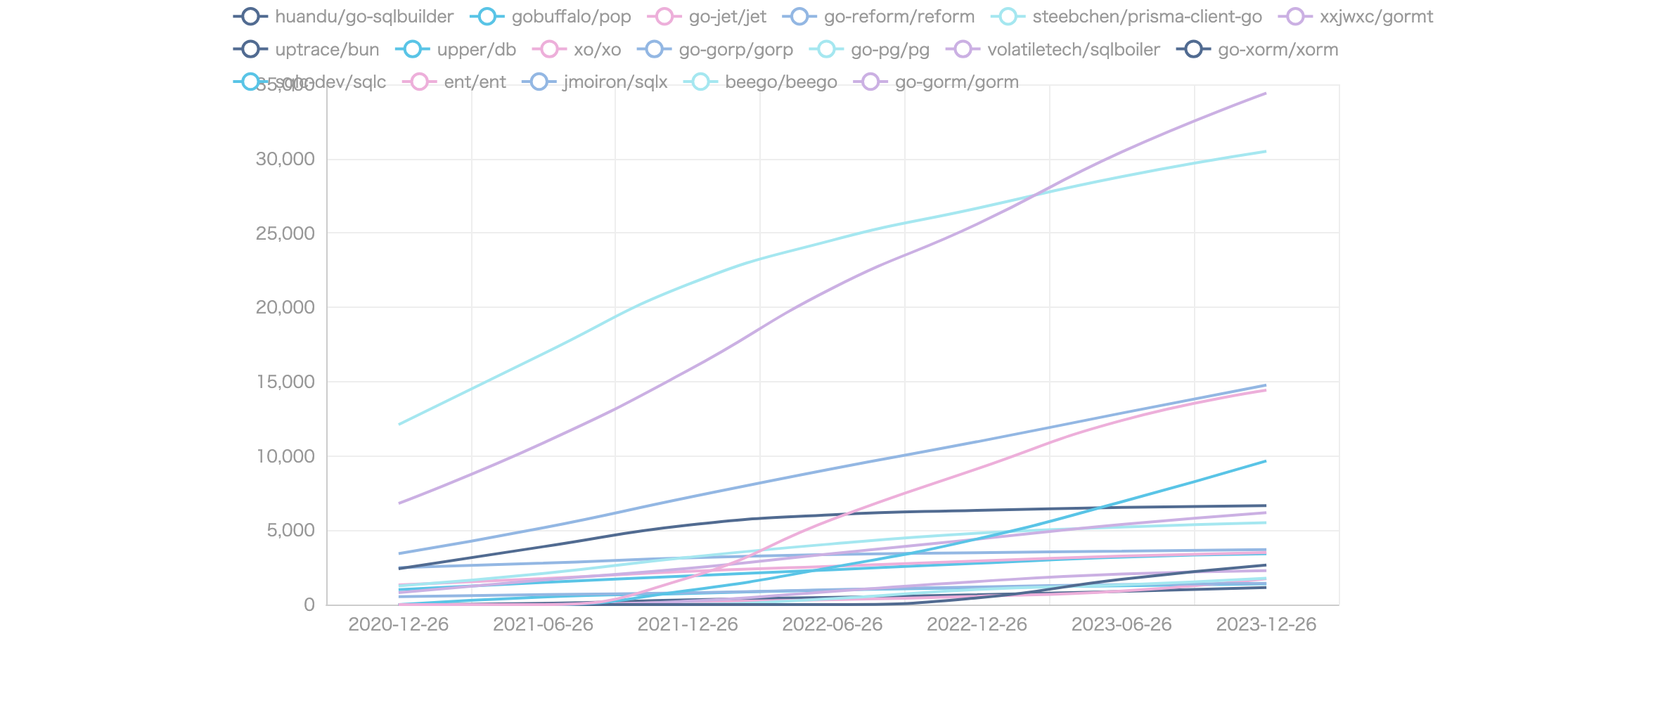
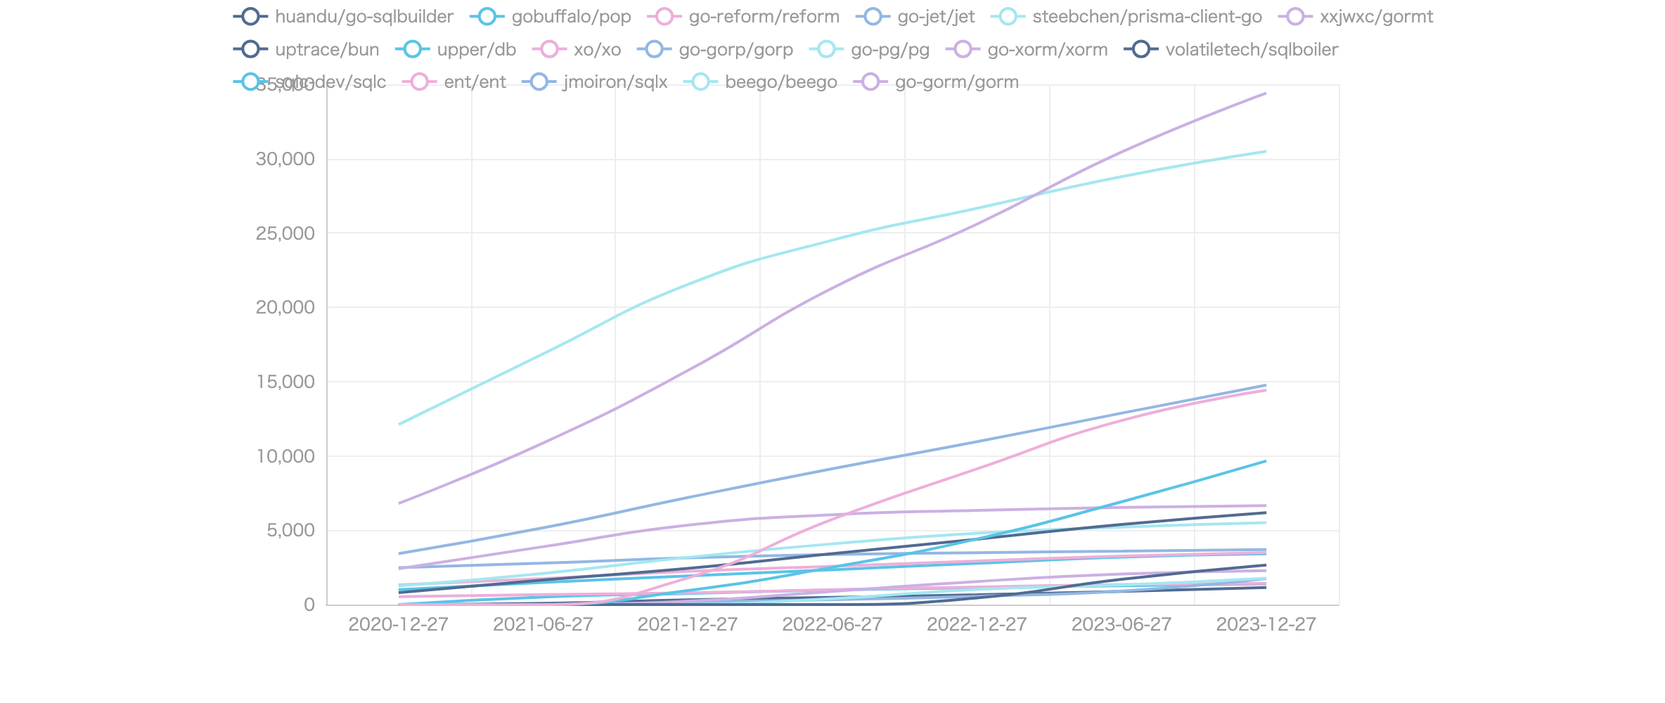
Refactor getStargazersCountByRepo function to use model.NewStargazers() and fetchStargazersPage

diff --git a/output/orm_chart.html b/output/orm_chart.html
@@ -10,20 +10,20 @@
 
 <body>
 <div class="container">
-    <div class="item" id="knIMYfmMvbLj" style="width:900px;height:500px;"></div>
+    <div class="item" id="bdAGAFRUhpXG" style="width:900px;height:500px;"></div>
 </div>
 
 <script type="text/javascript">
     "use strict";
-    let goecharts_knIMYfmMvbLj = echarts.init(document.getElementById('knIMYfmMvbLj'), "westeros");
-    let option_knIMYfmMvbLj = {"dataset":{"source":null},"legend":{"show":true,"type":""},"series":[{"name":"huandu/go-sqlbuilder","type":"line","smooth":true,"connectNulls":false,"showSymbol":false,"waveAnimation":false,"renderLabelForZeroData":false,"selectedMode":false,"animation":false,"data":[{"value":0,"XAxisIndex":0,"YAxisIndex":0},{"value":81,"XAxisIndex":0,"YAxisIndex":0},{"value":317,"XAxisIndex":0,"YAxisIndex":0},{"value":489,"XAxisIndex":0,"YAxisIndex":0},{"value":663,"XAxisIndex":0,"YAxisIndex":0},{"value":891,"XAxisIndex":0,"YAxisIndex":0},{"value":1145,"XAxisIndex":0,"YAxisIndex":0}]},{"name":"gobuffalo/pop","type":"line","smooth":true,"connectNulls":false,"showSymbol":false,"waveAnimation":false,"renderLabelForZeroData":false,"selectedMode":false,"animation":false,"data":[{"value":0,"XAxisIndex":0,"YAxisIndex":0},{"value":509,"XAxisIndex":0,"YAxisIndex":0},{"value":750,"XAxisIndex":0,"YAxisIndex":0},{"value":979,"XAxisIndex":0,"YAxisIndex":0},{"value":1134,"XAxisIndex":0,"YAxisIndex":0},{"value":1267,"XAxisIndex":0,"YAxisIndex":0},{"value":1390,"XAxisIndex":0,"YAxisIndex":0}]},{"name":"go-jet/jet","type":"line","smooth":true,"connectNulls":false,"showSymbol":false,"waveAnimation":false,"renderLabelForZeroData":false,"selectedMode":false,"animation":false,"data":[{"value":0,"XAxisIndex":0,"YAxisIndex":0},{"value":0,"XAxisIndex":0,"YAxisIndex":0},{"value":171,"XAxisIndex":0,"YAxisIndex":0},{"value":329,"XAxisIndex":0,"YAxisIndex":0},{"value":560,"XAxisIndex":0,"YAxisIndex":0},{"value":912,"XAxisIndex":0,"YAxisIndex":0},{"value":1743,"XAxisIndex":0,"YAxisIndex":0}]},{"name":"go-reform/reform","type":"line","smooth":true,"connectNulls":false,"showSymbol":false,"waveAnimation":false,"renderLabelForZeroData":false,"selectedMode":false,"animation":false,"data":[{"value":535,"XAxisIndex":0,"YAxisIndex":0},{"value":672,"XAxisIndex":0,"YAxisIndex":0},{"value":793,"XAxisIndex":0,"YAxisIndex":0},{"value":1002,"XAxisIndex":0,"YAxisIndex":0},{"value":1185,"XAxisIndex":0,"YAxisIndex":0},{"value":1347,"XAxisIndex":0,"YAxisIndex":0},{"value":1427,"XAxisIndex":0,"YAxisIndex":0}]},{"name":"steebchen/prisma-client-go","type":"line","smooth":true,"connectNulls":false,"showSymbol":false,"waveAnimation":false,"renderLabelForZeroData":false,"selectedMode":false,"animation":false,"data":[{"value":0,"XAxisIndex":0,"YAxisIndex":0},{"value":0,"XAxisIndex":0,"YAxisIndex":0},{"value":25,"XAxisIndex":0,"YAxisIndex":0},{"value":403,"XAxisIndex":0,"YAxisIndex":0},{"value":1018,"XAxisIndex":0,"YAxisIndex":0},{"value":1322,"XAxisIndex":0,"YAxisIndex":0},{"value":1776,"XAxisIndex":0,"YAxisIndex":0}]},{"name":"xxjwxc/gormt","type":"line","smooth":true,"connectNulls":false,"showSymbol":false,"waveAnimation":false,"renderLabelForZeroData":false,"selectedMode":false,"animation":false,"data":[{"value":0,"XAxisIndex":0,"YAxisIndex":0},{"value":0,"XAxisIndex":0,"YAxisIndex":0},{"value":231,"XAxisIndex":0,"YAxisIndex":0},{"value":887,"XAxisIndex":0,"YAxisIndex":0},{"value":1554,"XAxisIndex":0,"YAxisIndex":0},{"value":2052,"XAxisIndex":0,"YAxisIndex":0},{"value":2284,"XAxisIndex":0,"YAxisIndex":0}]},{"name":"uptrace/bun","type":"line","smooth":true,"connectNulls":false,"showSymbol":false,"waveAnimation":false,"renderLabelForZeroData":false,"selectedMode":false,"animation":false,"data":[{"value":0,"XAxisIndex":0,"YAxisIndex":0},{"value":0,"XAxisIndex":0,"YAxisIndex":0},{"value":0,"XAxisIndex":0,"YAxisIndex":0},{"value":0,"XAxisIndex":0,"YAxisIndex":0},{"value":447,"XAxisIndex":0,"YAxisIndex":0},{"value":1704,"XAxisIndex":0,"YAxisIndex":0},{"value":2663,"XAxisIndex":0,"YAxisIndex":0}]},{"name":"upper/db","type":"line","smooth":true,"connectNulls":false,"showSymbol":false,"waveAnimation":false,"renderLabelForZeroData":false,"selectedMode":false,"animation":false,"data":[{"value":1001,"XAxisIndex":0,"YAxisIndex":0},{"value":1490,"XAxisIndex":0,"YAxisIndex":0},{"value":1933,"XAxisIndex":0,"YAxisIndex":0},{"value":2347,"XAxisIndex":0,"YAxisIndex":0},{"value":2776,"XAxisIndex":0,"YAxisIndex":0},{"value":3196,"XAxisIndex":0,"YAxisIndex":0},{"value":3419,"XAxisIndex":0,"YAxisIndex":0}]},{"name":"xo/xo","type":"line","smooth":true,"connectNulls":false,"showSymbol":false,"waveAnimation":false,"renderLabelForZeroData":false,"selectedMode":false,"animation":false,"data":[{"value":1323,"XAxisIndex":0,"YAxisIndex":0},{"value":1755,"XAxisIndex":0,"YAxisIndex":0},{"value":2231,"XAxisIndex":0,"YAxisIndex":0},{"value":2581,"XAxisIndex":0,"YAxisIndex":0},{"value":2929,"XAxisIndex":0,"YAxisIndex":0},{"value":3263,"XAxisIndex":0,"YAxisIndex":0},{"value":3497,"XAxisIndex":0,"YAxisIndex":0}]},{"name":"go-gorp/gorp","type":"line","smooth":true,"connectNulls":false,"showSymbol":false,"waveAnimation":false,"renderLabelForZeroData":false,"selectedMode":false,"animation":false,"data":[{"value":2487,"XAxisIndex":0,"YAxisIndex":0},{"value":2786,"XAxisIndex":0,"YAxisIndex":0},{"value":3143,"XAxisIndex":0,"YAxisIndex":0},{"value":3373,"XAxisIndex":0,"YAxisIndex":0},{"value":3492,"XAxisIndex":0,"YAxisIndex":0},{"value":3592,"XAxisIndex":0,"YAxisIndex":0},{"value":3701,"XAxisIndex":0,"YAxisIndex":0}]},{"name":"go-pg/pg","type":"line","smooth":true,"connectNulls":false,"showSymbol":false,"waveAnimation":false,"renderLabelForZeroData":false,"selectedMode":false,"animation":false,"data":[{"value":1248,"XAxisIndex":0,"YAxisIndex":0},{"value":2096,"XAxisIndex":0,"YAxisIndex":0},{"value":3177,"XAxisIndex":0,"YAxisIndex":0},{"value":4085,"XAxisIndex":0,"YAxisIndex":0},{"value":4798,"XAxisIndex":0,"YAxisIndex":0},{"value":5217,"XAxisIndex":0,"YAxisIndex":0},{"value":5511,"XAxisIndex":0,"YAxisIndex":0}]},{"name":"volatiletech/sqlboiler","type":"line","smooth":true,"connectNulls":false,"showSymbol":false,"waveAnimation":false,"renderLabelForZeroData":false,"selectedMode":false,"animation":false,"data":[{"value":805,"XAxisIndex":0,"YAxisIndex":0},{"value":1659,"XAxisIndex":0,"YAxisIndex":0},{"value":2435,"XAxisIndex":0,"YAxisIndex":0},{"value":3432,"XAxisIndex":0,"YAxisIndex":0},{"value":4403,"XAxisIndex":0,"YAxisIndex":0},{"value":5389,"XAxisIndex":0,"YAxisIndex":0},{"value":6188,"XAxisIndex":0,"YAxisIndex":0}]},{"name":"go-xorm/xorm","type":"line","smooth":true,"connectNulls":false,"showSymbol":false,"waveAnimation":false,"renderLabelForZeroData":false,"selectedMode":false,"animation":false,"data":[{"value":2416,"XAxisIndex":0,"YAxisIndex":0},{"value":3896,"XAxisIndex":0,"YAxisIndex":0},{"value":5344,"XAxisIndex":0,"YAxisIndex":0},{"value":6045,"XAxisIndex":0,"YAxisIndex":0},{"value":6335,"XAxisIndex":0,"YAxisIndex":0},{"value":6533,"XAxisIndex":0,"YAxisIndex":0},{"value":6653,"XAxisIndex":0,"YAxisIndex":0}]},{"name":"sqlc-dev/sqlc","type":"line","smooth":true,"connectNulls":false,"showSymbol":false,"waveAnimation":false,"renderLabelForZeroData":false,"selectedMode":false,"animation":false,"data":[{"value":0,"XAxisIndex":0,"YAxisIndex":0},{"value":0,"XAxisIndex":0,"YAxisIndex":0},{"value":950,"XAxisIndex":0,"YAxisIndex":0},{"value":2512,"XAxisIndex":0,"YAxisIndex":0},{"value":4417,"XAxisIndex":0,"YAxisIndex":0},{"value":6919,"XAxisIndex":0,"YAxisIndex":0},{"value":9668,"XAxisIndex":0,"YAxisIndex":0}]},{"name":"ent/ent","type":"line","smooth":true,"connectNulls":false,"showSymbol":false,"waveAnimation":false,"renderLabelForZeroData":false,"selectedMode":false,"animation":false,"data":[{"value":0,"XAxisIndex":0,"YAxisIndex":0},{"value":0,"XAxisIndex":0,"YAxisIndex":0},{"value":1795,"XAxisIndex":0,"YAxisIndex":0},{"value":5740,"XAxisIndex":0,"YAxisIndex":0},{"value":9130,"XAxisIndex":0,"YAxisIndex":0},{"value":12385,"XAxisIndex":0,"YAxisIndex":0},{"value":14421,"XAxisIndex":0,"YAxisIndex":0}]},{"name":"jmoiron/sqlx","type":"line","smooth":true,"connectNulls":false,"showSymbol":false,"waveAnimation":false,"renderLabelForZeroData":false,"selectedMode":false,"animation":false,"data":[{"value":3429,"XAxisIndex":0,"YAxisIndex":0},{"value":5164,"XAxisIndex":0,"YAxisIndex":0},{"value":7200,"XAxisIndex":0,"YAxisIndex":0},{"value":9144,"XAxisIndex":0,"YAxisIndex":0},{"value":10957,"XAxisIndex":0,"YAxisIndex":0},{"value":12882,"XAxisIndex":0,"YAxisIndex":0},{"value":14769,"XAxisIndex":0,"YAxisIndex":0}]},{"name":"beego/beego","type":"line","smooth":true,"connectNulls":false,"showSymbol":false,"waveAnimation":false,"renderLabelForZeroData":false,"selectedMode":false,"animation":false,"data":[{"value":12110,"XAxisIndex":0,"YAxisIndex":0},{"value":16875,"XAxisIndex":0,"YAxisIndex":0},{"value":21533,"XAxisIndex":0,"YAxisIndex":0},{"value":24519,"XAxisIndex":0,"YAxisIndex":0},{"value":26665,"XAxisIndex":0,"YAxisIndex":0},{"value":28792,"XAxisIndex":0,"YAxisIndex":0},{"value":30492,"XAxisIndex":0,"YAxisIndex":0}]},{"name":"go-gorm/gorm","type":"line","smooth":true,"connectNulls":false,"showSymbol":false,"waveAnimation":false,"renderLabelForZeroData":false,"selectedMode":false,"animation":false,"data":[{"value":6808,"XAxisIndex":0,"YAxisIndex":0},{"value":10873,"XAxisIndex":0,"YAxisIndex":0},{"value":15746,"XAxisIndex":0,"YAxisIndex":0},{"value":21291,"XAxisIndex":0,"YAxisIndex":0},{"value":25600,"XAxisIndex":0,"YAxisIndex":0},{"value":30451,"XAxisIndex":0,"YAxisIndex":0},{"value":34413,"XAxisIndex":0,"YAxisIndex":0}]}],"title":{},"tooltip":{"show":false},"xAxis":[{"data":["2020-12-26","2021-06-26","2021-12-26","2022-06-26","2022-12-26","2023-06-26","2023-12-26"]}],"yAxis":[{}]}
+    let goecharts_bdAGAFRUhpXG = echarts.init(document.getElementById('bdAGAFRUhpXG'), "westeros");
+    let option_bdAGAFRUhpXG = {"dataset":{"source":null},"legend":{"show":true,"type":""},"series":[{"name":"huandu/go-sqlbuilder","type":"line","smooth":true,"connectNulls":false,"showSymbol":false,"waveAnimation":false,"renderLabelForZeroData":false,"selectedMode":false,"animation":false,"data":[{"value":0,"XAxisIndex":0,"YAxisIndex":0},{"value":81,"XAxisIndex":0,"YAxisIndex":0},{"value":317,"XAxisIndex":0,"YAxisIndex":0},{"value":489,"XAxisIndex":0,"YAxisIndex":0},{"value":663,"XAxisIndex":0,"YAxisIndex":0},{"value":891,"XAxisIndex":0,"YAxisIndex":0},{"value":1145,"XAxisIndex":0,"YAxisIndex":0}]},{"name":"gobuffalo/pop","type":"line","smooth":true,"connectNulls":false,"showSymbol":false,"waveAnimation":false,"renderLabelForZeroData":false,"selectedMode":false,"animation":false,"data":[{"value":0,"XAxisIndex":0,"YAxisIndex":0},{"value":509,"XAxisIndex":0,"YAxisIndex":0},{"value":750,"XAxisIndex":0,"YAxisIndex":0},{"value":979,"XAxisIndex":0,"YAxisIndex":0},{"value":1134,"XAxisIndex":0,"YAxisIndex":0},{"value":1267,"XAxisIndex":0,"YAxisIndex":0},{"value":1390,"XAxisIndex":0,"YAxisIndex":0}]},{"name":"go-reform/reform","type":"line","smooth":true,"connectNulls":false,"showSymbol":false,"waveAnimation":false,"renderLabelForZeroData":false,"selectedMode":false,"animation":false,"data":[{"value":535,"XAxisIndex":0,"YAxisIndex":0},{"value":672,"XAxisIndex":0,"YAxisIndex":0},{"value":793,"XAxisIndex":0,"YAxisIndex":0},{"value":1002,"XAxisIndex":0,"YAxisIndex":0},{"value":1185,"XAxisIndex":0,"YAxisIndex":0},{"value":1347,"XAxisIndex":0,"YAxisIndex":0},{"value":1427,"XAxisIndex":0,"YAxisIndex":0}]},{"name":"go-jet/jet","type":"line","smooth":true,"connectNulls":false,"showSymbol":false,"waveAnimation":false,"renderLabelForZeroData":false,"selectedMode":false,"animation":false,"data":[{"value":0,"XAxisIndex":0,"YAxisIndex":0},{"value":0,"XAxisIndex":0,"YAxisIndex":0},{"value":171,"XAxisIndex":0,"YAxisIndex":0},{"value":329,"XAxisIndex":0,"YAxisIndex":0},{"value":560,"XAxisIndex":0,"YAxisIndex":0},{"value":912,"XAxisIndex":0,"YAxisIndex":0},{"value":1744,"XAxisIndex":0,"YAxisIndex":0}]},{"name":"steebchen/prisma-client-go","type":"line","smooth":true,"connectNulls":false,"showSymbol":false,"waveAnimation":false,"renderLabelForZeroData":false,"selectedMode":false,"animation":false,"data":[{"value":0,"XAxisIndex":0,"YAxisIndex":0},{"value":0,"XAxisIndex":0,"YAxisIndex":0},{"value":25,"XAxisIndex":0,"YAxisIndex":0},{"value":404,"XAxisIndex":0,"YAxisIndex":0},{"value":1018,"XAxisIndex":0,"YAxisIndex":0},{"value":1322,"XAxisIndex":0,"YAxisIndex":0},{"value":1776,"XAxisIndex":0,"YAxisIndex":0}]},{"name":"xxjwxc/gormt","type":"line","smooth":true,"connectNulls":false,"showSymbol":false,"waveAnimation":false,"renderLabelForZeroData":false,"selectedMode":false,"animation":false,"data":[{"value":0,"XAxisIndex":0,"YAxisIndex":0},{"value":0,"XAxisIndex":0,"YAxisIndex":0},{"value":231,"XAxisIndex":0,"YAxisIndex":0},{"value":887,"XAxisIndex":0,"YAxisIndex":0},{"value":1554,"XAxisIndex":0,"YAxisIndex":0},{"value":2052,"XAxisIndex":0,"YAxisIndex":0},{"value":2284,"XAxisIndex":0,"YAxisIndex":0}]},{"name":"uptrace/bun","type":"line","smooth":true,"connectNulls":false,"showSymbol":false,"waveAnimation":false,"renderLabelForZeroData":false,"selectedMode":false,"animation":false,"data":[{"value":0,"XAxisIndex":0,"YAxisIndex":0},{"value":0,"XAxisIndex":0,"YAxisIndex":0},{"value":0,"XAxisIndex":0,"YAxisIndex":0},{"value":0,"XAxisIndex":0,"YAxisIndex":0},{"value":447,"XAxisIndex":0,"YAxisIndex":0},{"value":1704,"XAxisIndex":0,"YAxisIndex":0},{"value":2663,"XAxisIndex":0,"YAxisIndex":0}]},{"name":"upper/db","type":"line","smooth":true,"connectNulls":false,"showSymbol":false,"waveAnimation":false,"renderLabelForZeroData":false,"selectedMode":false,"animation":false,"data":[{"value":1001,"XAxisIndex":0,"YAxisIndex":0},{"value":1490,"XAxisIndex":0,"YAxisIndex":0},{"value":1933,"XAxisIndex":0,"YAxisIndex":0},{"value":2347,"XAxisIndex":0,"YAxisIndex":0},{"value":2776,"XAxisIndex":0,"YAxisIndex":0},{"value":3196,"XAxisIndex":0,"YAxisIndex":0},{"value":3419,"XAxisIndex":0,"YAxisIndex":0}]},{"name":"xo/xo","type":"line","smooth":true,"connectNulls":false,"showSymbol":false,"waveAnimation":false,"renderLabelForZeroData":false,"selectedMode":false,"animation":false,"data":[{"value":1323,"XAxisIndex":0,"YAxisIndex":0},{"value":1755,"XAxisIndex":0,"YAxisIndex":0},{"value":2231,"XAxisIndex":0,"YAxisIndex":0},{"value":2581,"XAxisIndex":0,"YAxisIndex":0},{"value":2929,"XAxisIndex":0,"YAxisIndex":0},{"value":3263,"XAxisIndex":0,"YAxisIndex":0},{"value":3497,"XAxisIndex":0,"YAxisIndex":0}]},{"name":"go-gorp/gorp","type":"line","smooth":true,"connectNulls":false,"showSymbol":false,"waveAnimation":false,"renderLabelForZeroData":false,"selectedMode":false,"animation":false,"data":[{"value":2487,"XAxisIndex":0,"YAxisIndex":0},{"value":2786,"XAxisIndex":0,"YAxisIndex":0},{"value":3143,"XAxisIndex":0,"YAxisIndex":0},{"value":3373,"XAxisIndex":0,"YAxisIndex":0},{"value":3492,"XAxisIndex":0,"YAxisIndex":0},{"value":3592,"XAxisIndex":0,"YAxisIndex":0},{"value":3701,"XAxisIndex":0,"YAxisIndex":0}]},{"name":"go-pg/pg","type":"line","smooth":true,"connectNulls":false,"showSymbol":false,"waveAnimation":false,"renderLabelForZeroData":false,"selectedMode":false,"animation":false,"data":[{"value":1248,"XAxisIndex":0,"YAxisIndex":0},{"value":2096,"XAxisIndex":0,"YAxisIndex":0},{"value":3177,"XAxisIndex":0,"YAxisIndex":0},{"value":4085,"XAxisIndex":0,"YAxisIndex":0},{"value":4798,"XAxisIndex":0,"YAxisIndex":0},{"value":5217,"XAxisIndex":0,"YAxisIndex":0},{"value":5511,"XAxisIndex":0,"YAxisIndex":0}]},{"name":"go-xorm/xorm","type":"line","smooth":true,"connectNulls":false,"showSymbol":false,"waveAnimation":false,"renderLabelForZeroData":false,"selectedMode":false,"animation":false,"data":[{"value":2416,"XAxisIndex":0,"YAxisIndex":0},{"value":3897,"XAxisIndex":0,"YAxisIndex":0},{"value":5345,"XAxisIndex":0,"YAxisIndex":0},{"value":6045,"XAxisIndex":0,"YAxisIndex":0},{"value":6335,"XAxisIndex":0,"YAxisIndex":0},{"value":6533,"XAxisIndex":0,"YAxisIndex":0},{"value":6653,"XAxisIndex":0,"YAxisIndex":0}]},{"name":"volatiletech/sqlboiler","type":"line","smooth":true,"connectNulls":false,"showSymbol":false,"waveAnimation":false,"renderLabelForZeroData":false,"selectedMode":false,"animation":false,"data":[{"value":805,"XAxisIndex":0,"YAxisIndex":0},{"value":1659,"XAxisIndex":0,"YAxisIndex":0},{"value":2435,"XAxisIndex":0,"YAxisIndex":0},{"value":3432,"XAxisIndex":0,"YAxisIndex":0},{"value":4403,"XAxisIndex":0,"YAxisIndex":0},{"value":5389,"XAxisIndex":0,"YAxisIndex":0},{"value":6188,"XAxisIndex":0,"YAxisIndex":0}]},{"name":"sqlc-dev/sqlc","type":"line","smooth":true,"connectNulls":false,"showSymbol":false,"waveAnimation":false,"renderLabelForZeroData":false,"selectedMode":false,"animation":false,"data":[{"value":0,"XAxisIndex":0,"YAxisIndex":0},{"value":0,"XAxisIndex":0,"YAxisIndex":0},{"value":950,"XAxisIndex":0,"YAxisIndex":0},{"value":2513,"XAxisIndex":0,"YAxisIndex":0},{"value":4417,"XAxisIndex":0,"YAxisIndex":0},{"value":6919,"XAxisIndex":0,"YAxisIndex":0},{"value":9668,"XAxisIndex":0,"YAxisIndex":0}]},{"name":"ent/ent","type":"line","smooth":true,"connectNulls":false,"showSymbol":false,"waveAnimation":false,"renderLabelForZeroData":false,"selectedMode":false,"animation":false,"data":[{"value":0,"XAxisIndex":0,"YAxisIndex":0},{"value":0,"XAxisIndex":0,"YAxisIndex":0},{"value":1795,"XAxisIndex":0,"YAxisIndex":0},{"value":5740,"XAxisIndex":0,"YAxisIndex":0},{"value":9130,"XAxisIndex":0,"YAxisIndex":0},{"value":12385,"XAxisIndex":0,"YAxisIndex":0},{"value":14421,"XAxisIndex":0,"YAxisIndex":0}]},{"name":"jmoiron/sqlx","type":"line","smooth":true,"connectNulls":false,"showSymbol":false,"waveAnimation":false,"renderLabelForZeroData":false,"selectedMode":false,"animation":false,"data":[{"value":3429,"XAxisIndex":0,"YAxisIndex":0},{"value":5164,"XAxisIndex":0,"YAxisIndex":0},{"value":7200,"XAxisIndex":0,"YAxisIndex":0},{"value":9144,"XAxisIndex":0,"YAxisIndex":0},{"value":10958,"XAxisIndex":0,"YAxisIndex":0},{"value":12882,"XAxisIndex":0,"YAxisIndex":0},{"value":14769,"XAxisIndex":0,"YAxisIndex":0}]},{"name":"beego/beego","type":"line","smooth":true,"connectNulls":false,"showSymbol":false,"waveAnimation":false,"renderLabelForZeroData":false,"selectedMode":false,"animation":false,"data":[{"value":12112,"XAxisIndex":0,"YAxisIndex":0},{"value":16875,"XAxisIndex":0,"YAxisIndex":0},{"value":21533,"XAxisIndex":0,"YAxisIndex":0},{"value":24519,"XAxisIndex":0,"YAxisIndex":0},{"value":26665,"XAxisIndex":0,"YAxisIndex":0},{"value":28792,"XAxisIndex":0,"YAxisIndex":0},{"value":30492,"XAxisIndex":0,"YAxisIndex":0}]},{"name":"go-gorm/gorm","type":"line","smooth":true,"connectNulls":false,"showSymbol":false,"waveAnimation":false,"renderLabelForZeroData":false,"selectedMode":false,"animation":false,"data":[{"value":6808,"XAxisIndex":0,"YAxisIndex":0},{"value":10875,"XAxisIndex":0,"YAxisIndex":0},{"value":15746,"XAxisIndex":0,"YAxisIndex":0},{"value":21292,"XAxisIndex":0,"YAxisIndex":0},{"value":25600,"XAxisIndex":0,"YAxisIndex":0},{"value":30452,"XAxisIndex":0,"YAxisIndex":0},{"value":34413,"XAxisIndex":0,"YAxisIndex":0}]}],"title":{},"tooltip":{"show":false},"xAxis":[{"data":["2020-12-27","2021-06-27","2021-12-27","2022-06-27","2022-12-27","2023-06-27","2023-12-27"]}],"yAxis":[{}]}
 ;
     
-	let action_knIMYfmMvbLj = {"areas":{},"type":""}
+	let action_bdAGAFRUhpXG = {"areas":{},"type":""}
 ;
     
-    goecharts_knIMYfmMvbLj.setOption(option_knIMYfmMvbLj);
- 	goecharts_knIMYfmMvbLj.dispatchAction(action_knIMYfmMvbLj);
+    goecharts_bdAGAFRUhpXG.setOption(option_bdAGAFRUhpXG);
+ 	goecharts_bdAGAFRUhpXG.dispatchAction(action_bdAGAFRUhpXG);
 </script>
 
 <style>

diff --git a/app/fetch.go b/app/fetch.go
@@ -83,25 +83,21 @@ func (s *fetchService) createGitHub(ctx context.Context) (*model.GitHub, error) 
 }
 
 func (s *fetchService) getStargazersCountByRepo(ctx context.Context, repo *model.Repository) []model.Stargazer {
-	sem := make(chan bool, 4)
-	var eg errgroup.Group
-	var lock sync.Mutex
-	var stargazers []model.Stargazer
+	var (
+		sem        = make(chan bool, 4)
+		eg         errgroup.Group
+		lock       sync.Mutex
+		stargazers = model.NewStargazers()
+	)
 	for page := 1; page <= model.LastPage(repo); page++ {
 		sem <- true
 		page := page
 		eg.Go(func() error {
 			defer func() { <-sem }()
-			result, err := s.gitHubRepo.GetStarPage(ctx, repo, page)
-			if errors.Is(err, pkg.ErrNoMorePages) {
-				return nil
-			}
-			if err != nil {
-				return err
-			}
+			result := s.fetchStargazersPage(ctx, repo, page, stargazers)
 			lock.Lock()
 			defer lock.Unlock()
-			stargazers = append(stargazers, *result...)
+			stargazers.Stars = append(stargazers.Stars, *result...)
 			return nil
 		})
 	}
@@ -109,7 +105,7 @@ func (s *fetchService) getStargazersCountByRepo(ctx context.Context, repo *model
 		log.Println(err)
 	}
 
-	return stargazers
+	return stargazers.Stars
 }
 
 func (s *fetchService) fetchStargazersPage(ctx context.Context, repo *model.Repository, page int, stargazers *model.Stargazers) *[]model.Stargazer {

diff --git a/README.md b/README.md
@@ -4,93 +4,93 @@ If there are any other public repositories of golang orMapper, I'd be glad to he
 [![Start数チャート](output/orm_chart.jpeg)](https://ryotaroseto.github.io/star-golang-orms/output/orm_chart.html)
 | No. | Project Name | Stars | Subscribers | Forks | Open Issues | Description | Createdate | Last Update |
 | --- | ------------ | ----- | ----------- | ----- | ----------- | ----------- | ----------- | ----------- |
-| 1 | [huandu/go-sqlbuilder](https://github.com/huandu/go-sqlbuilder) | 1145 | 12 | 107 | 5 | A flexible and powerful SQL string builder library plus a zero-config ORM. | 2017-12-27 16:37:48 | 2023-12-26 07:03:10 |
-| 2 | [go-jet/jet](https://github.com/go-jet/jet) | 1743 | 23 | 100 | 39 | Type safe SQL builder with code generation and automatic query result data mapping | 2019-03-02 11:06:23 | 2023-12-26 13:20:51 |
+| 1 | [go-jet/jet](https://github.com/go-jet/jet) | 1744 | 23 | 100 | 39 | Type safe SQL builder with code generation and automatic query result data mapping | 2019-03-02 11:06:23 | 2023-12-26 14:29:08 |
+| 2 | [huandu/go-sqlbuilder](https://github.com/huandu/go-sqlbuilder) | 1145 | 12 | 107 | 5 | A flexible and powerful SQL string builder library plus a zero-config ORM. | 2017-12-27 16:37:48 | 2023-12-26 07:03:10 |
 | 3 | [go-xorm/xorm](https://github.com/go-xorm/xorm) | 6653 | 266 | 770 | 307 | Simple and Powerful ORM for Go, support mysql,postgres,tidb,sqlite3,mssql,oracle, Moved to https://gitea.com/xorm/xorm | 2013-05-09 02:35:04 | 2023-12-26 11:00:08 |
-| 4 | [beego/beego](https://github.com/beego/beego) | 30492 | 1199 | 5692 | 13 | beego is an open-source, high-performance web framework for the Go programming language. | 2012-02-29 02:32:08 | 2023-12-26 09:29:57 |
-| 5 | [gobuffalo/pop](https://github.com/gobuffalo/pop) | 1390 | 22 | 248 | 95 | A Tasty Treat For All Your Database Needs | 2018-02-07 21:13:46 | 2023-12-20 03:29:28 |
-| 6 | [jmoiron/sqlx](https://github.com/jmoiron/sqlx) | 14769 | 198 | 1057 | 346 | general purpose extensions to golang's database/sql | 2013-01-28 19:40:00 | 2023-12-26 13:51:14 |
-| 7 | [go-gorp/gorp](https://github.com/go-gorp/gorp) | 3701 | 106 | 414 | 146 | Go Relational Persistence - an ORM-ish library for Go | 2012-01-04 19:50:09 | 2023-12-26 09:29:52 |
-| 8 | [upper/db](https://github.com/upper/db) | 3419 | 59 | 241 | 153 | Data access layer for PostgreSQL, CockroachDB, MySQL, SQLite and MongoDB with ORM-like features. | 2013-10-23 02:04:36 | 2023-12-26 08:10:48 |
+| 4 | [gobuffalo/pop](https://github.com/gobuffalo/pop) | 1390 | 22 | 248 | 95 | A Tasty Treat For All Your Database Needs | 2018-02-07 21:13:46 | 2023-12-20 03:29:28 |
+| 5 | [go-reform/reform](https://github.com/go-reform/reform) | 1427 | 25 | 73 | 86 | A better ORM for Go, based on non-empty interfaces and code generation. | 2016-02-25 09:41:09 | 2023-12-21 17:03:32 |
+| 6 | [go-gorp/gorp](https://github.com/go-gorp/gorp) | 3701 | 106 | 414 | 146 | Go Relational Persistence - an ORM-ish library for Go | 2012-01-04 19:50:09 | 2023-12-26 09:29:52 |
+| 7 | [xxjwxc/gormt](https://github.com/xxjwxc/gormt) | 2284 | 23 | 375 | 58 | database to golang struct | 2019-05-05 13:10:26 | 2023-12-25 15:24:52 |
+| 8 | [beego/beego](https://github.com/beego/beego) | 30492 | 1199 | 5692 | 13 | beego is an open-source, high-performance web framework for the Go programming language. | 2012-02-29 02:32:08 | 2023-12-26 09:29:57 |
 | 9 | [ent/ent](https://github.com/ent/ent) | 14421 | 152 | 908 | 395 | An entity framework for Go | 2019-06-12 22:53:55 | 2023-12-26 11:12:34 |
-| 10 | [go-pg/pg](https://github.com/go-pg/pg) | 5511 | 88 | 405 | 115 | Golang ORM with focus on PostgreSQL features and performance | 2013-04-24 12:31:41 | 2023-12-26 05:59:46 |
-| 11 | [go-gorm/gorm](https://github.com/go-gorm/gorm) | 34413 | 497 | 3823 | 299 | The fantastic ORM library for Golang, aims to be developer friendly | 2013-10-25 08:31:38 | 2023-12-26 11:48:32 |
-| 12 | [xo/xo](https://github.com/xo/xo) | 3497 | 71 | 312 | 41 | Command line tool to generate idiomatic Go code for SQL databases supporting PostgreSQL, MySQL, SQLite, Oracle, and Microsoft SQL Server | 2016-02-05 10:22:20 | 2023-12-25 09:23:05 |
-| 13 | [uptrace/bun](https://github.com/uptrace/bun) | 2663 | 25 | 176 | 146 | SQL-first Golang ORM | 2021-05-03 11:40:52 | 2023-12-26 10:57:33 |
-| 14 | [xxjwxc/gormt](https://github.com/xxjwxc/gormt) | 2284 | 23 | 375 | 58 | database to golang struct | 2019-05-05 13:10:26 | 2023-12-25 15:24:52 |
-| 15 | [go-reform/reform](https://github.com/go-reform/reform) | 1427 | 25 | 73 | 86 | A better ORM for Go, based on non-empty interfaces and code generation. | 2016-02-25 09:41:09 | 2023-12-21 17:03:32 |
-| 16 | [volatiletech/sqlboiler](https://github.com/volatiletech/sqlboiler) | 6188 | 75 | 563 | 99 | Generate a Go ORM tailored to your database schema. | 2016-02-21 06:18:25 | 2023-12-26 13:03:53 |
+| 10 | [upper/db](https://github.com/upper/db) | 3419 | 59 | 241 | 153 | Data access layer for PostgreSQL, CockroachDB, MySQL, SQLite and MongoDB with ORM-like features. | 2013-10-23 02:04:36 | 2023-12-26 08:10:48 |
+| 11 | [jmoiron/sqlx](https://github.com/jmoiron/sqlx) | 14769 | 198 | 1057 | 346 | general purpose extensions to golang's database/sql | 2013-01-28 19:40:00 | 2023-12-26 13:51:14 |
+| 12 | [uptrace/bun](https://github.com/uptrace/bun) | 2663 | 25 | 176 | 146 | SQL-first Golang ORM | 2021-05-03 11:40:52 | 2023-12-26 10:57:33 |
+| 13 | [xo/xo](https://github.com/xo/xo) | 3497 | 71 | 312 | 41 | Command line tool to generate idiomatic Go code for SQL databases supporting PostgreSQL, MySQL, SQLite, Oracle, and Microsoft SQL Server | 2016-02-05 10:22:20 | 2023-12-25 09:23:05 |
+| 14 | [volatiletech/sqlboiler](https://github.com/volatiletech/sqlboiler) | 6188 | 75 | 563 | 99 | Generate a Go ORM tailored to your database schema. | 2016-02-21 06:18:25 | 2023-12-26 13:03:53 |
+| 15 | [go-gorm/gorm](https://github.com/go-gorm/gorm) | 34413 | 497 | 3823 | 299 | The fantastic ORM library for Golang, aims to be developer friendly | 2013-10-25 08:31:38 | 2023-12-26 11:48:32 |
+| 16 | [go-pg/pg](https://github.com/go-pg/pg) | 5511 | 88 | 405 | 115 | Golang ORM with focus on PostgreSQL features and performance | 2013-04-24 12:31:41 | 2023-12-26 05:59:46 |
 | 17 | [steebchen/prisma-client-go](https://github.com/steebchen/prisma-client-go) | 1776 | 27 | 89 | 96 | Prisma Client Go is an auto-generated and fully type-safe database client | 2019-09-24 12:17:03 | 2023-12-25 14:22:34 |
-| 18 | [sqlc-dev/sqlc](https://github.com/sqlc-dev/sqlc) | 9668 | 69 | 655 | 219 | Generate type-safe code from SQL | 2019-06-21 21:11:35 | 2023-12-26 14:05:43 |
+| 18 | [sqlc-dev/sqlc](https://github.com/sqlc-dev/sqlc) | 9668 | 69 | 656 | 219 | Generate type-safe code from SQL | 2019-06-21 21:11:35 | 2023-12-26 14:26:14 |
 ## [huandu/go-sqlbuilder](https://github.com/huandu/go-sqlbuilder)
-| 2020-12-26 | 2021-06-26 | 2021-12-26 | 2022-06-26 | 2022-12-26 | 2023-06-26 | 2023-12-26 |
+| 2020-12-27 | 2021-06-27 | 2021-12-27 | 2022-06-27 | 2022-12-27 | 2023-06-27 | 2023-12-27 |
 | --- | --- | --- | --- | --- | --- | --- |
 | - | 81 | 317 | 489 | 663 | 891 | 1145 |
 ## [gobuffalo/pop](https://github.com/gobuffalo/pop)
-| 2020-12-26 | 2021-06-26 | 2021-12-26 | 2022-06-26 | 2022-12-26 | 2023-06-26 | 2023-12-26 |
+| 2020-12-27 | 2021-06-27 | 2021-12-27 | 2022-06-27 | 2022-12-27 | 2023-06-27 | 2023-12-27 |
 | --- | --- | --- | --- | --- | --- | --- |
 | - | 509 | 750 | 979 | 1134 | 1267 | 1390 |
-## [go-jet/jet](https://github.com/go-jet/jet)
-| 2020-12-26 | 2021-06-26 | 2021-12-26 | 2022-06-26 | 2022-12-26 | 2023-06-26 | 2023-12-26 |
-| --- | --- | --- | --- | --- | --- | --- |
-| - | - | 171 | 329 | 560 | 912 | 1743 |
 ## [go-reform/reform](https://github.com/go-reform/reform)
-| 2020-12-26 | 2021-06-26 | 2021-12-26 | 2022-06-26 | 2022-12-26 | 2023-06-26 | 2023-12-26 |
+| 2020-12-27 | 2021-06-27 | 2021-12-27 | 2022-06-27 | 2022-12-27 | 2023-06-27 | 2023-12-27 |
 | --- | --- | --- | --- | --- | --- | --- |
 | 535 | 672 | 793 | 1002 | 1185 | 1347 | 1427 |
-## [steebchen/prisma-client-go](https://github.com/steebchen/prisma-client-go)
-| 2020-12-26 | 2021-06-26 | 2021-12-26 | 2022-06-26 | 2022-12-26 | 2023-06-26 | 2023-12-26 |
+## [go-jet/jet](https://github.com/go-jet/jet)
+| 2020-12-27 | 2021-06-27 | 2021-12-27 | 2022-06-27 | 2022-12-27 | 2023-06-27 | 2023-12-27 |
 | --- | --- | --- | --- | --- | --- | --- |
-| - | - | 25 | 403 | 1018 | 1322 | 1776 |
+| - | - | 171 | 329 | 560 | 912 | 1744 |
+## [steebchen/prisma-client-go](https://github.com/steebchen/prisma-client-go)
+| 2020-12-27 | 2021-06-27 | 2021-12-27 | 2022-06-27 | 2022-12-27 | 2023-06-27 | 2023-12-27 |
+| --- | --- | --- | --- | --- | --- | --- |
+| - | - | 25 | 404 | 1018 | 1322 | 1776 |
 ## [xxjwxc/gormt](https://github.com/xxjwxc/gormt)
-| 2020-12-26 | 2021-06-26 | 2021-12-26 | 2022-06-26 | 2022-12-26 | 2023-06-26 | 2023-12-26 |
+| 2020-12-27 | 2021-06-27 | 2021-12-27 | 2022-06-27 | 2022-12-27 | 2023-06-27 | 2023-12-27 |
 | --- | --- | --- | --- | --- | --- | --- |
 | - | - | 231 | 887 | 1554 | 2052 | 2284 |
 ## [uptrace/bun](https://github.com/uptrace/bun)
-| 2020-12-26 | 2021-06-26 | 2021-12-26 | 2022-06-26 | 2022-12-26 | 2023-06-26 | 2023-12-26 |
+| 2020-12-27 | 2021-06-27 | 2021-12-27 | 2022-06-27 | 2022-12-27 | 2023-06-27 | 2023-12-27 |
 | --- | --- | --- | --- | --- | --- | --- |
 | - | - | - | - | 447 | 1704 | 2663 |
 ## [upper/db](https://github.com/upper/db)
-| 2020-12-26 | 2021-06-26 | 2021-12-26 | 2022-06-26 | 2022-12-26 | 2023-06-26 | 2023-12-26 |
+| 2020-12-27 | 2021-06-27 | 2021-12-27 | 2022-06-27 | 2022-12-27 | 2023-06-27 | 2023-12-27 |
 | --- | --- | --- | --- | --- | --- | --- |
 | 1001 | 1490 | 1933 | 2347 | 2776 | 3196 | 3419 |
 ## [xo/xo](https://github.com/xo/xo)
-| 2020-12-26 | 2021-06-26 | 2021-12-26 | 2022-06-26 | 2022-12-26 | 2023-06-26 | 2023-12-26 |
+| 2020-12-27 | 2021-06-27 | 2021-12-27 | 2022-06-27 | 2022-12-27 | 2023-06-27 | 2023-12-27 |
 | --- | --- | --- | --- | --- | --- | --- |
 | 1323 | 1755 | 2231 | 2581 | 2929 | 3263 | 3497 |
 ## [go-gorp/gorp](https://github.com/go-gorp/gorp)
-| 2020-12-26 | 2021-06-26 | 2021-12-26 | 2022-06-26 | 2022-12-26 | 2023-06-26 | 2023-12-26 |
+| 2020-12-27 | 2021-06-27 | 2021-12-27 | 2022-06-27 | 2022-12-27 | 2023-06-27 | 2023-12-27 |
 | --- | --- | --- | --- | --- | --- | --- |
 | 2487 | 2786 | 3143 | 3373 | 3492 | 3592 | 3701 |
 ## [go-pg/pg](https://github.com/go-pg/pg)
-| 2020-12-26 | 2021-06-26 | 2021-12-26 | 2022-06-26 | 2022-12-26 | 2023-06-26 | 2023-12-26 |
+| 2020-12-27 | 2021-06-27 | 2021-12-27 | 2022-06-27 | 2022-12-27 | 2023-06-27 | 2023-12-27 |
 | --- | --- | --- | --- | --- | --- | --- |
 | 1248 | 2096 | 3177 | 4085 | 4798 | 5217 | 5511 |
+## [go-xorm/xorm](https://github.com/go-xorm/xorm)
+| 2020-12-27 | 2021-06-27 | 2021-12-27 | 2022-06-27 | 2022-12-27 | 2023-06-27 | 2023-12-27 |
+| --- | --- | --- | --- | --- | --- | --- |
+| 2416 | 3897 | 5345 | 6045 | 6335 | 6533 | 6653 |
 ## [volatiletech/sqlboiler](https://github.com/volatiletech/sqlboiler)
-| 2020-12-26 | 2021-06-26 | 2021-12-26 | 2022-06-26 | 2022-12-26 | 2023-06-26 | 2023-12-26 |
+| 2020-12-27 | 2021-06-27 | 2021-12-27 | 2022-06-27 | 2022-12-27 | 2023-06-27 | 2023-12-27 |
 | --- | --- | --- | --- | --- | --- | --- |
 | 805 | 1659 | 2435 | 3432 | 4403 | 5389 | 6188 |
-## [go-xorm/xorm](https://github.com/go-xorm/xorm)
-| 2020-12-26 | 2021-06-26 | 2021-12-26 | 2022-06-26 | 2022-12-26 | 2023-06-26 | 2023-12-26 |
-| --- | --- | --- | --- | --- | --- | --- |
-| 2416 | 3896 | 5344 | 6045 | 6335 | 6533 | 6653 |
 ## [sqlc-dev/sqlc](https://github.com/sqlc-dev/sqlc)
-| 2020-12-26 | 2021-06-26 | 2021-12-26 | 2022-06-26 | 2022-12-26 | 2023-06-26 | 2023-12-26 |
+| 2020-12-27 | 2021-06-27 | 2021-12-27 | 2022-06-27 | 2022-12-27 | 2023-06-27 | 2023-12-27 |
 | --- | --- | --- | --- | --- | --- | --- |
-| - | - | 950 | 2512 | 4417 | 6919 | 9668 |
+| - | - | 950 | 2513 | 4417 | 6919 | 9668 |
 ## [ent/ent](https://github.com/ent/ent)
-| 2020-12-26 | 2021-06-26 | 2021-12-26 | 2022-06-26 | 2022-12-26 | 2023-06-26 | 2023-12-26 |
+| 2020-12-27 | 2021-06-27 | 2021-12-27 | 2022-06-27 | 2022-12-27 | 2023-06-27 | 2023-12-27 |
 | --- | --- | --- | --- | --- | --- | --- |
 | - | - | 1795 | 5740 | 9130 | 12385 | 14421 |
 ## [jmoiron/sqlx](https://github.com/jmoiron/sqlx)
-| 2020-12-26 | 2021-06-26 | 2021-12-26 | 2022-06-26 | 2022-12-26 | 2023-06-26 | 2023-12-26 |
+| 2020-12-27 | 2021-06-27 | 2021-12-27 | 2022-06-27 | 2022-12-27 | 2023-06-27 | 2023-12-27 |
 | --- | --- | --- | --- | --- | --- | --- |
-| 3429 | 5164 | 7200 | 9144 | 10957 | 12882 | 14769 |
+| 3429 | 5164 | 7200 | 9144 | 10958 | 12882 | 14769 |
 ## [beego/beego](https://github.com/beego/beego)
-| 2020-12-26 | 2021-06-26 | 2021-12-26 | 2022-06-26 | 2022-12-26 | 2023-06-26 | 2023-12-26 |
+| 2020-12-27 | 2021-06-27 | 2021-12-27 | 2022-06-27 | 2022-12-27 | 2023-06-27 | 2023-12-27 |
 | --- | --- | --- | --- | --- | --- | --- |
-| 12110 | 16875 | 21533 | 24519 | 26665 | 28792 | 30492 |
+| 12112 | 16875 | 21533 | 24519 | 26665 | 28792 | 30492 |
 ## [go-gorm/gorm](https://github.com/go-gorm/gorm)
-| 2020-12-26 | 2021-06-26 | 2021-12-26 | 2022-06-26 | 2022-12-26 | 2023-06-26 | 2023-12-26 |
+| 2020-12-27 | 2021-06-27 | 2021-12-27 | 2022-06-27 | 2022-12-27 | 2023-06-27 | 2023-12-27 |
 | --- | --- | --- | --- | --- | --- | --- |
-| 6808 | 10873 | 15746 | 21291 | 25600 | 30451 | 34413 |
+| 6808 | 10875 | 15746 | 21292 | 25600 | 30452 | 34413 |
